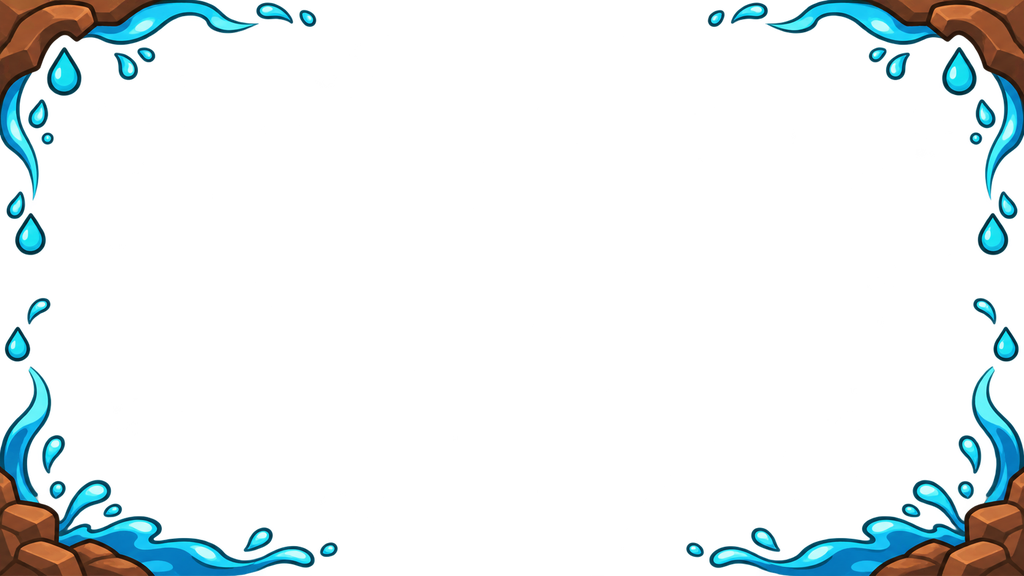
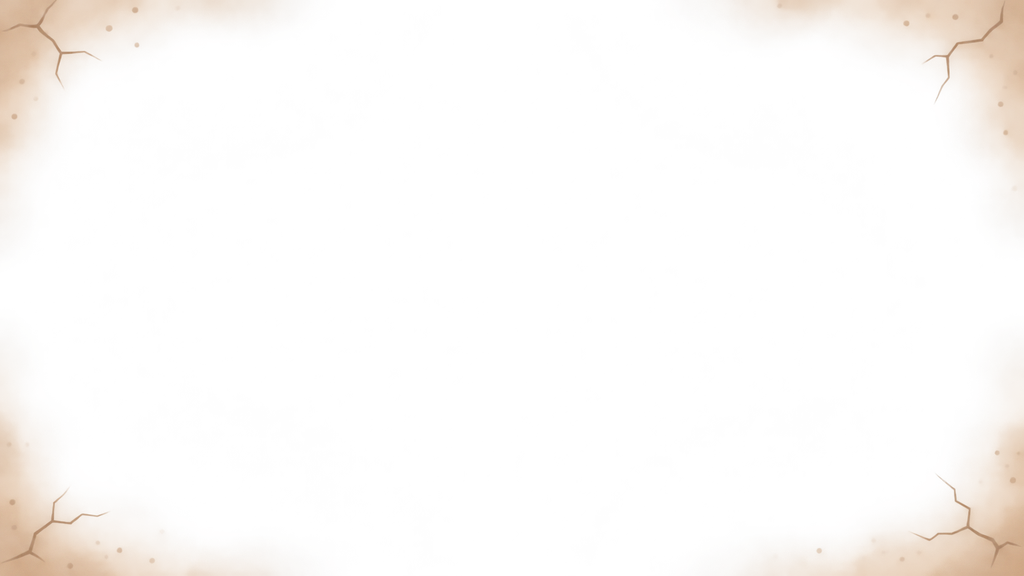
fix(hud): sede e fome com a terra rachada, gotas antigas fora
Os arquivos da pasta Indicadores de dano ganharam nome (dano, frio,
calor, sede, respiração). A terra rachada (sede.png) agora é a borda da
sede e também a da fome; a imagem de gotas de 09/11 saiu.

diff --git a/assets/ui/hud/prepare_fx.py b/assets/ui/hud/prepare_fx.py
@@ -1,7 +1,7 @@
 """Prepara as bordas de sofrimento e o ícone da arma presa (arte do Elizeu,
-pasta "Hud do jogo"). Bordas novas de 10/11 na subpasta "Indicadores de dano"
-(dano, gelo, fogo, terra rachada da fome, água do fôlego); a sede e o ícone
-continuam os de 09/11 (arquivos das 14:55).
+pasta "Hud do jogo"). Bordas na subpasta "Indicadores de dano", com os nomes
+que o Elizeu deu em 11/11 (dano, frio, calor, sede, respiração); a fome usa a
+mesma imagem da sede (HudImages.FX). O ícone continua o de 09/11.
 
 Bordas: tela inteira com o meio transparente, reduzidas para 1024x576 (o
 Roblox reduz tudo para no máximo 1024 de qualquer jeito). Ícone: 256.
@@ -16,18 +16,16 @@ import sys
 from PIL import Image
 
 OUT = os.path.dirname(os.path.abspath(__file__))
-OLD = "Imagem do ChatGPT 9 de nov. de 2026, "
-NEW = os.path.join("Indicadores de dano", "ChatGPT Image Nov 10, 2026, ")
+FX = "Indicadores de dano"
 
 # arquivo (relativo à pasta "Hud do jogo") -> (nome, tamanho final)
 PIECES = {
-    NEW + "10_28_49 AM-5.png": ("fx_damage", (1024, 576)),  # bordas vermelhas
-    NEW + "10_28_47 AM-1.png": ("fx_cold", (1024, 576)),  # neve e cristais de gelo
-    NEW + "10_28_47 AM-2.png": ("fx_heat", (1024, 576)),  # fogo
-    NEW + "10_28_48 AM-3.png": ("fx_hunger", (1024, 576)),  # terra rachada
-    OLD + "14_55_13-5.png": ("fx_thirst", (1024, 576)),  # gotas nos cantos
-    NEW + "10_28_48 AM-4.png": ("fx_oxygen", (1024, 576)),  # água e bolhas
-    OLD + "14_55_14-7.png": ("icon_weapon_lock", (256, 256)),  # espada, machado e picareta
+    os.path.join(FX, "dano.png"): ("fx_damage", (1024, 576)),  # bordas vermelhas
+    os.path.join(FX, "frio.png"): ("fx_cold", (1024, 576)),  # neve e cristais de gelo
+    os.path.join(FX, "calor.png"): ("fx_heat", (1024, 576)),  # fogo
+    os.path.join(FX, "sede.png"): ("fx_thirst", (1024, 576)),  # terra rachada
+    os.path.join(FX, "respiração.png"): ("fx_oxygen", (1024, 576)),  # água e bolhas
+    "Imagem do ChatGPT 9 de nov. de 2026, 14_55_14-7.png": ("icon_weapon_lock", (256, 256)),
 }
 
 

diff --git a/docs/guia/hud.md b/docs/guia/hud.md
@@ -82,7 +82,7 @@ O `StatusVignette` é um ScreenGui próprio, atrás do HUD, cobrindo a tela toda
 
 A força cresce até 60% perto do zero; zerada (quando a barra começa a machucar), a borda fica cheia e pulsa. Sem arte, cada borda são quatro faixas em degradê feitas por código. Com uma imagem em `HudImages.FX[efeito]` (tela inteira, transparente no meio), a imagem entra no lugar dela.
 
-As seis bordas têm arte do Elizeu (`assets/ui/hud/fx_*.png`, preparadas por `prepare_fx.py`, 1024×576, esticadas na tela). Em 10/11/2026 entraram as novas de dano, frio, calor, fome (terra rachada) e fôlego (água e bolhas), da pasta "Indicadores de dano"; a sede continua com a de 09/11. O relógio da arma presa mostra o ícone `ICON.weapon_lock` no medalhão, com os segundos num selo embaixo.
+As bordas têm arte do Elizeu (`assets/ui/hud/fx_*.png`, preparadas por `prepare_fx.py`, 1024×576, esticadas na tela), da pasta "Indicadores de dano": dano, frio, calor, sede e fome (a mesma terra rachada, `sede.png`) e fôlego (água e bolhas). Em 11/11/2026 a sede trocou as gotas de 09/11 pela terra rachada, igual à fome. Para dar uma arte própria à fome, é só subir a imagem e pôr o id em `HudImages.FX.hunger`. O relógio da arma presa mostra o ícone `ICON.weapon_lock` no medalhão, com os segundos num selo embaixo.
 
 ## Painel da caixa
 
